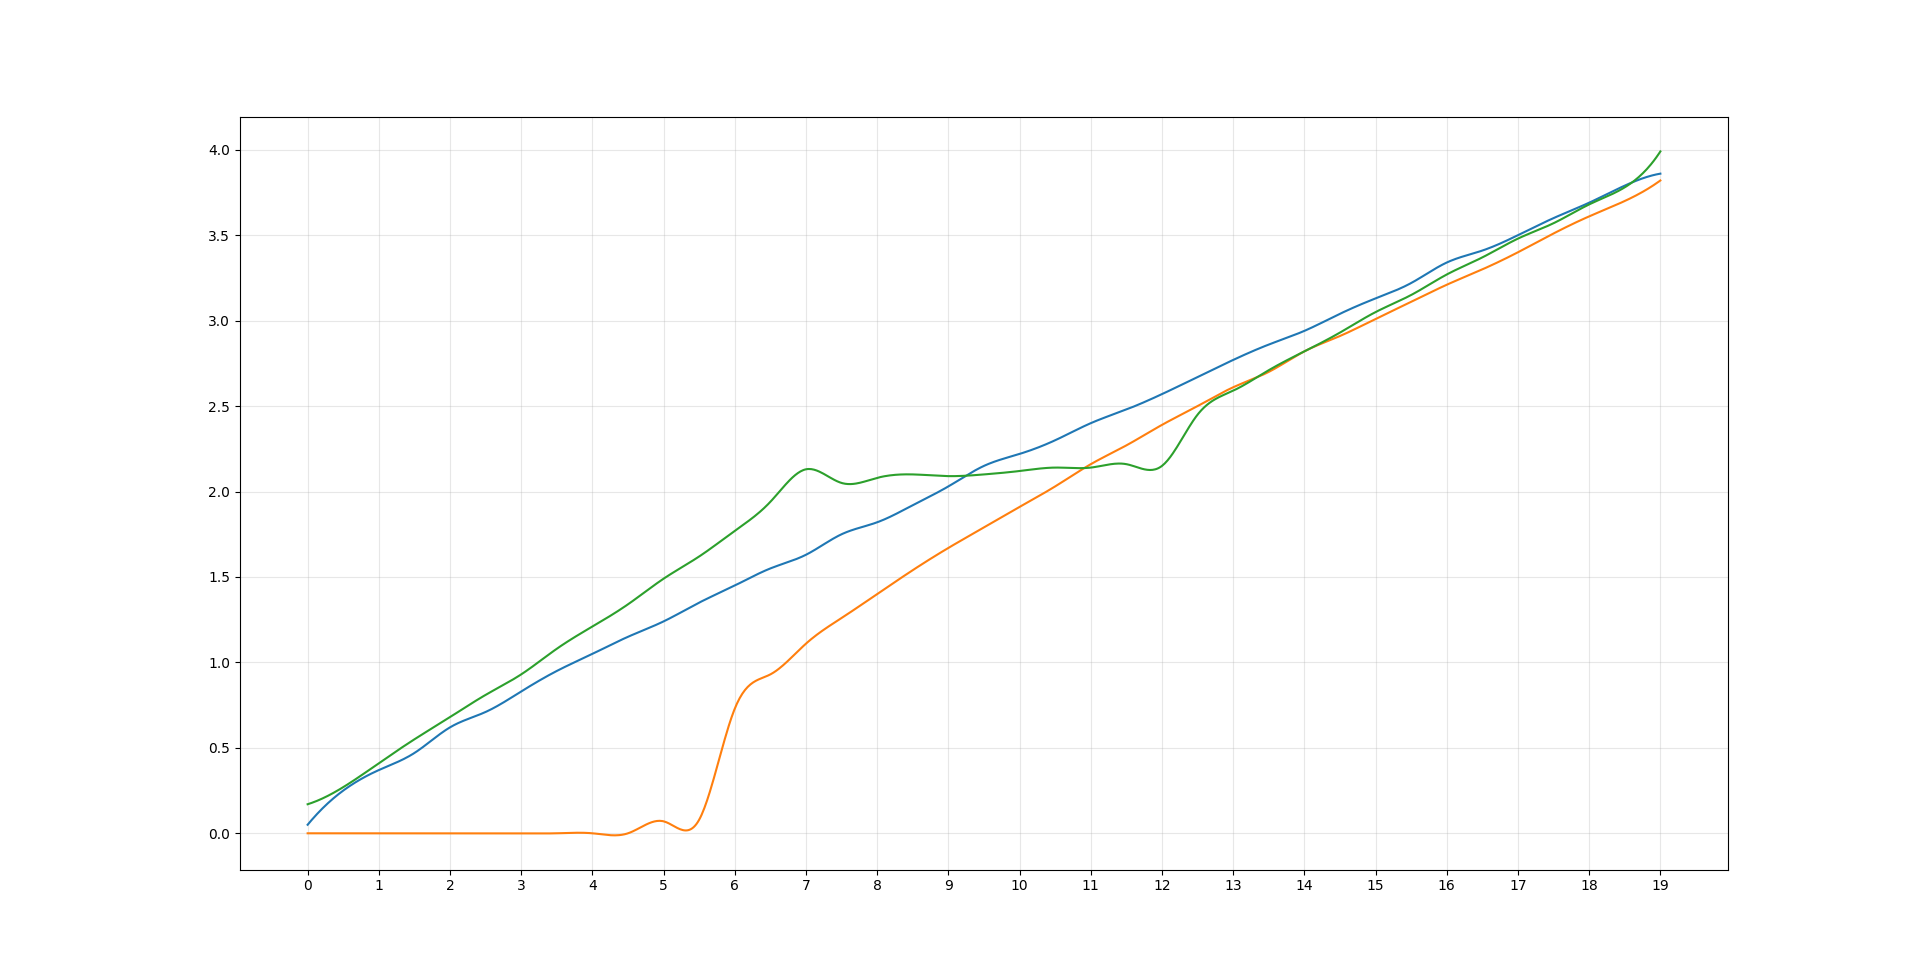
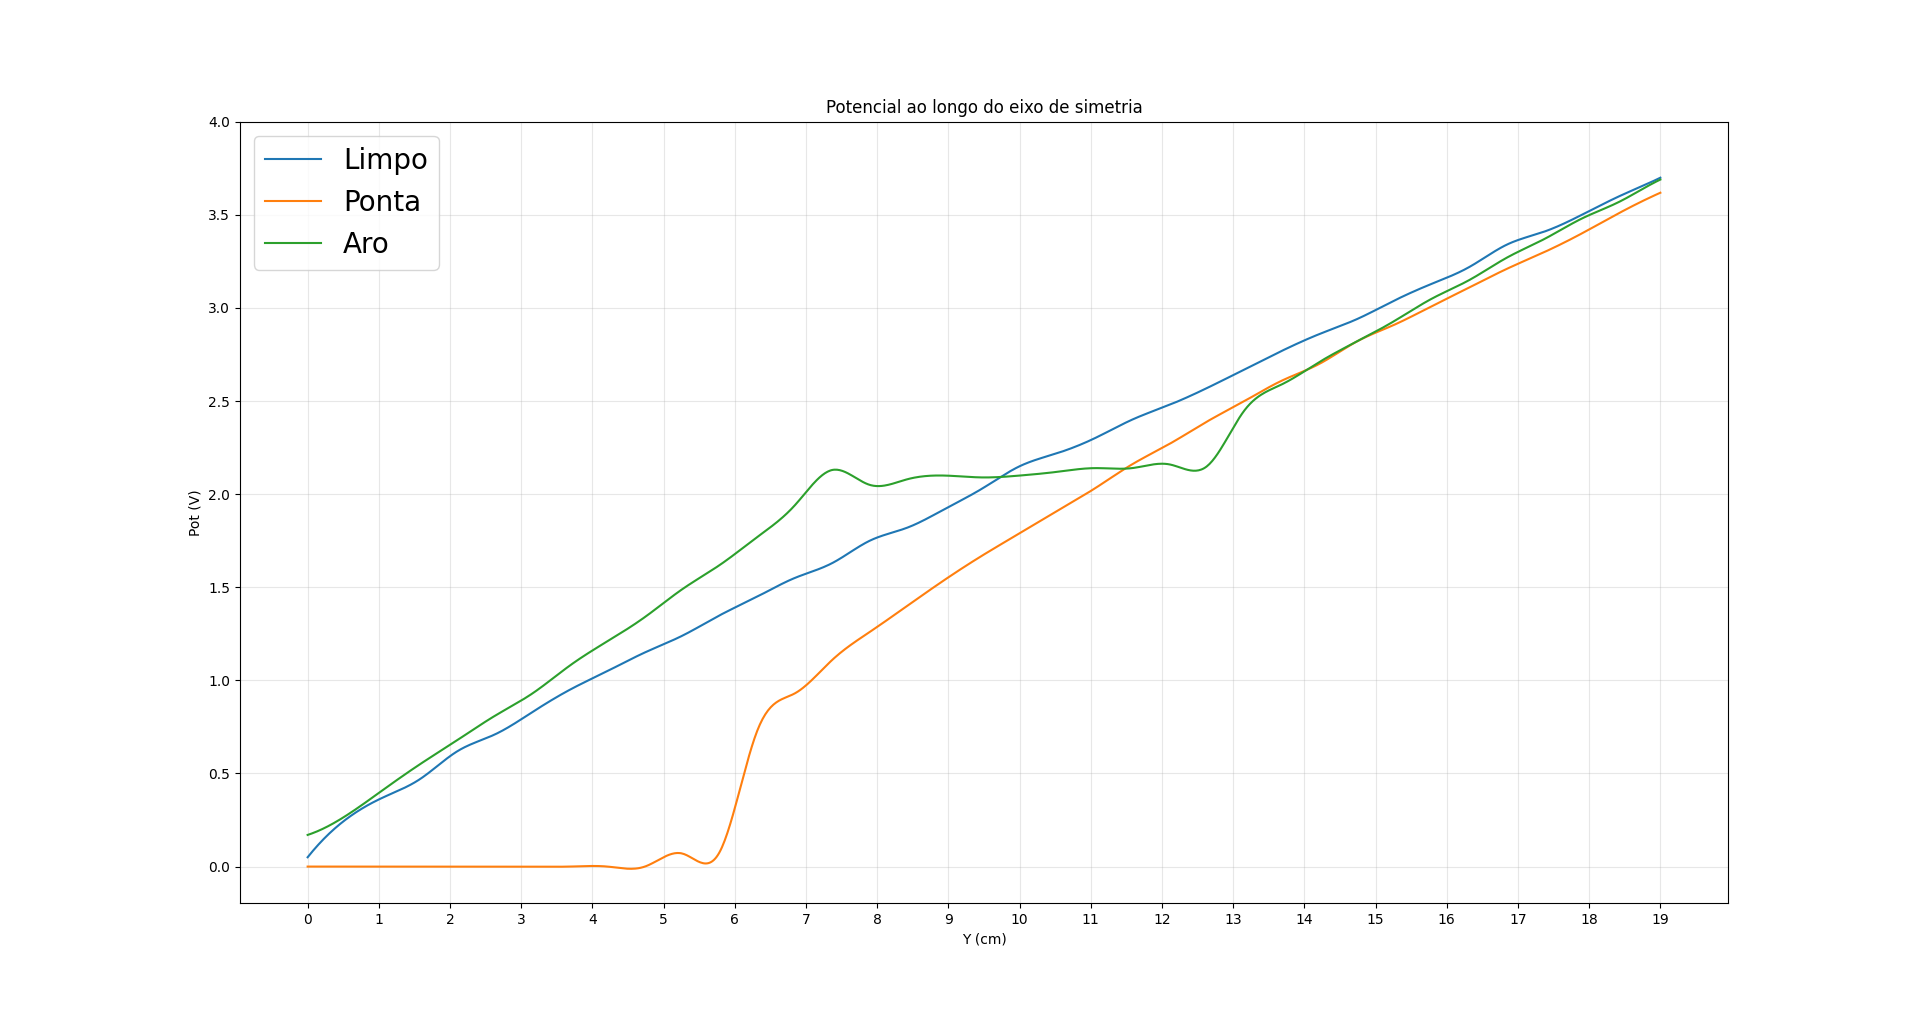
grafico sitmetria

diff --git a/experimento2/campo.py b/experimento2/campo.py
@@ -20,15 +20,16 @@ def smooth(x, y):
 
 	return x_new, y_new
 
+pt = {"clear" : "Limpo", "point" : "Ponta", "circle" : "Aro"}
 def f(exp, idx):
-	x = np.linspace(0, 19, len(df[exp]))
+	x = np.linspace(0, 20, len(df[exp]))
 	y = np.array(df[exp][::-1])
 	y[np.isnan(y)] = 0
 			
 	print(x, y, sep='\n')
 	x, y = smooth(x, y)
 
-	axis.plot(x, y)
+	axis.plot(x, y, label=pt[exp])
 
 figure, axis = plt.subplots()
 
@@ -39,8 +40,12 @@ f("circle", 2)
 # for i in range(3):
 # axis.set_aspect('equal', 'box')
 axis.set_xticks(np.arange(0, 20, 1))
+axis.set_yticks(np.arange(0, 4.5, 0.5))
 axis.grid(alpha=.3)
-
+axis.legend(prop={'size':20})
+axis.set_xlabel("Y (cm)")
+axis.set_ylabel("Pot (V)")
+axis.set_title("Potencial ao longo do eixo de simetria")
 
 
 plt.show()
